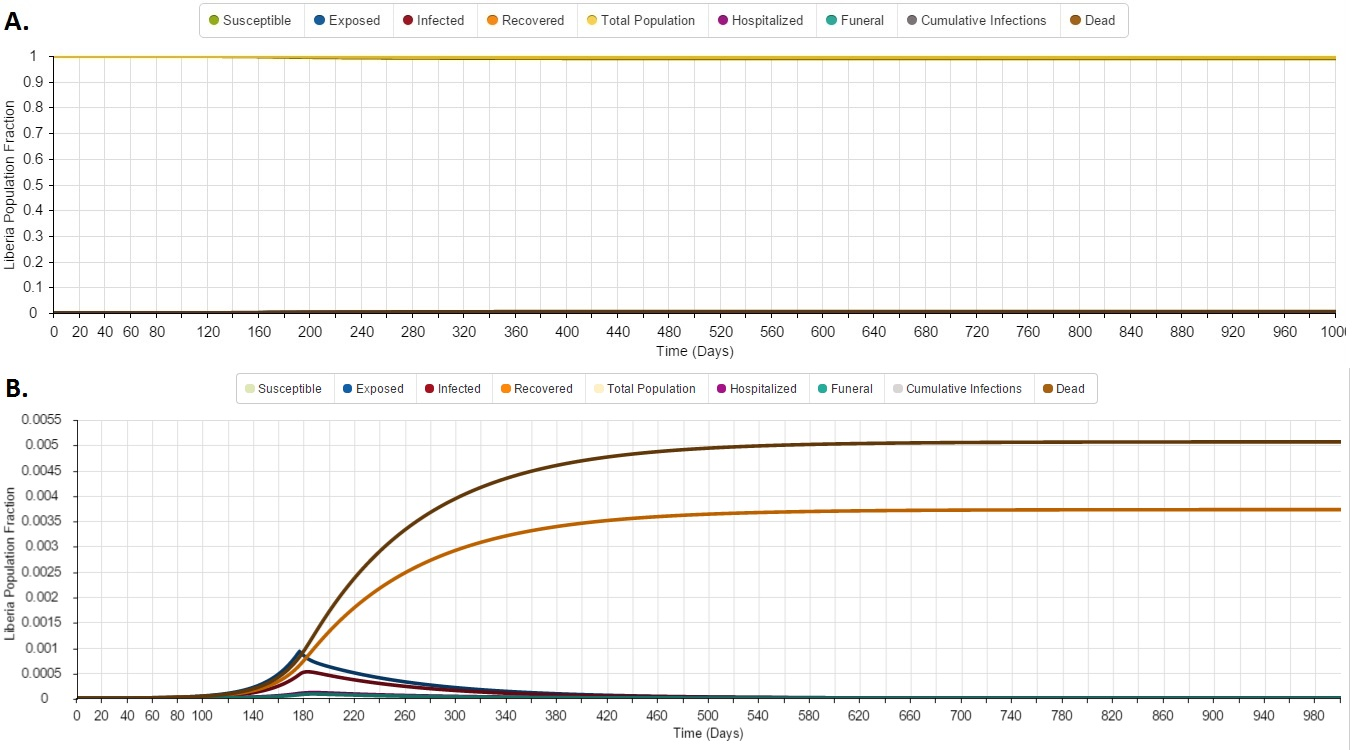
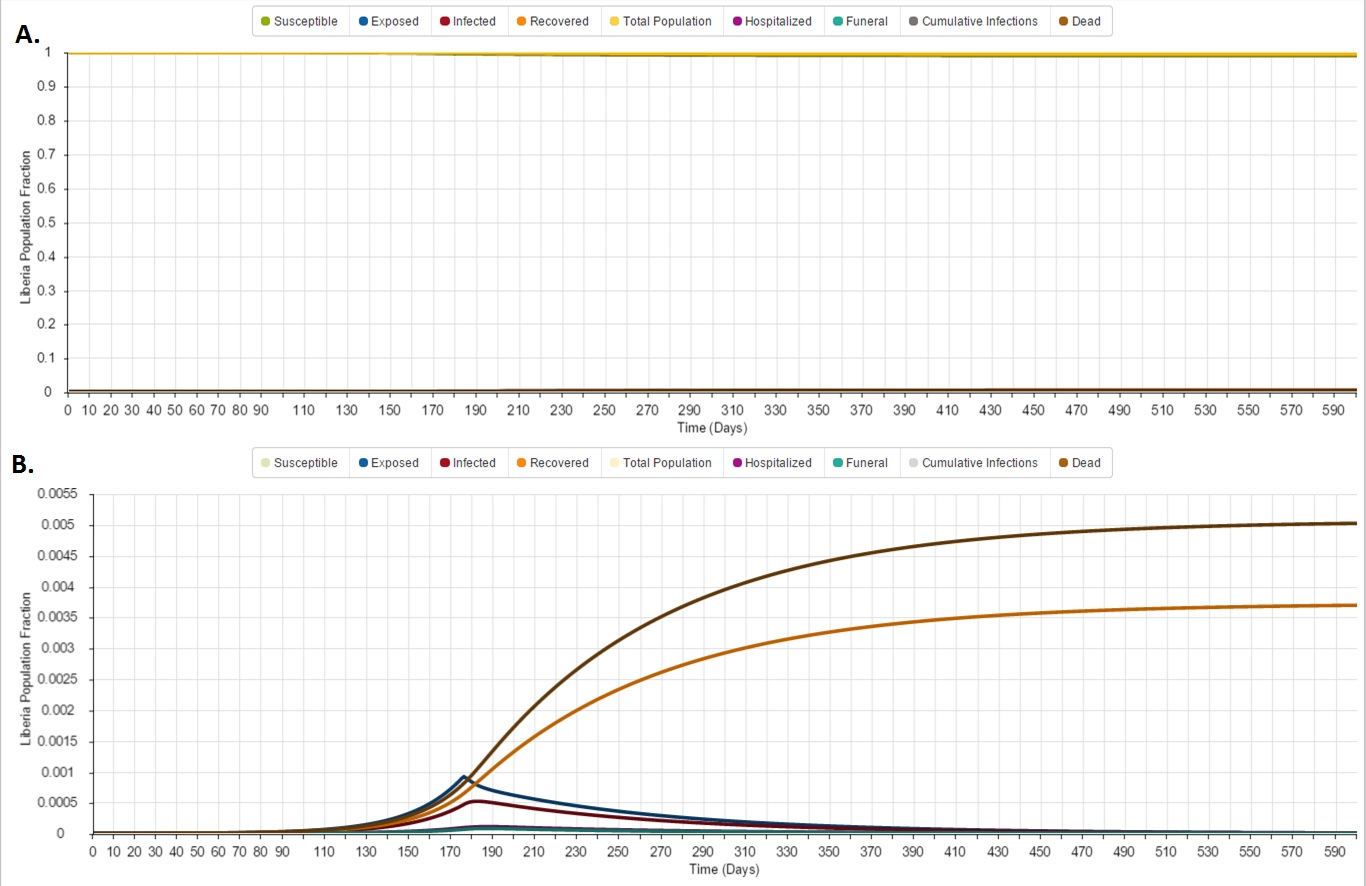
modified some fig

diff --git a/Callibration.tex b/Callibration.tex
@@ -66,7 +66,7 @@ Case Fatality Rate, Hospitalized ($\delta_{2}$) & 0.500 & 0.500 & 0.500\\ [1ex]
 
 \begin{figure}[h]
   \centering
-  \includegraphics[width=0.7\textwidth]{CumulativeDeathMathematica}
+  \includegraphics[width=1\textwidth]{CumulativeDeathMathematica}
   \caption{Validation of calibration. Dots represent cumulative death data and the lines represent simulation based on mean posterior parameters. (Blue) - pre intervention and (red) - post treatment.}
 \label{fig:Cumulative Death Plot}
 \end{figure}
